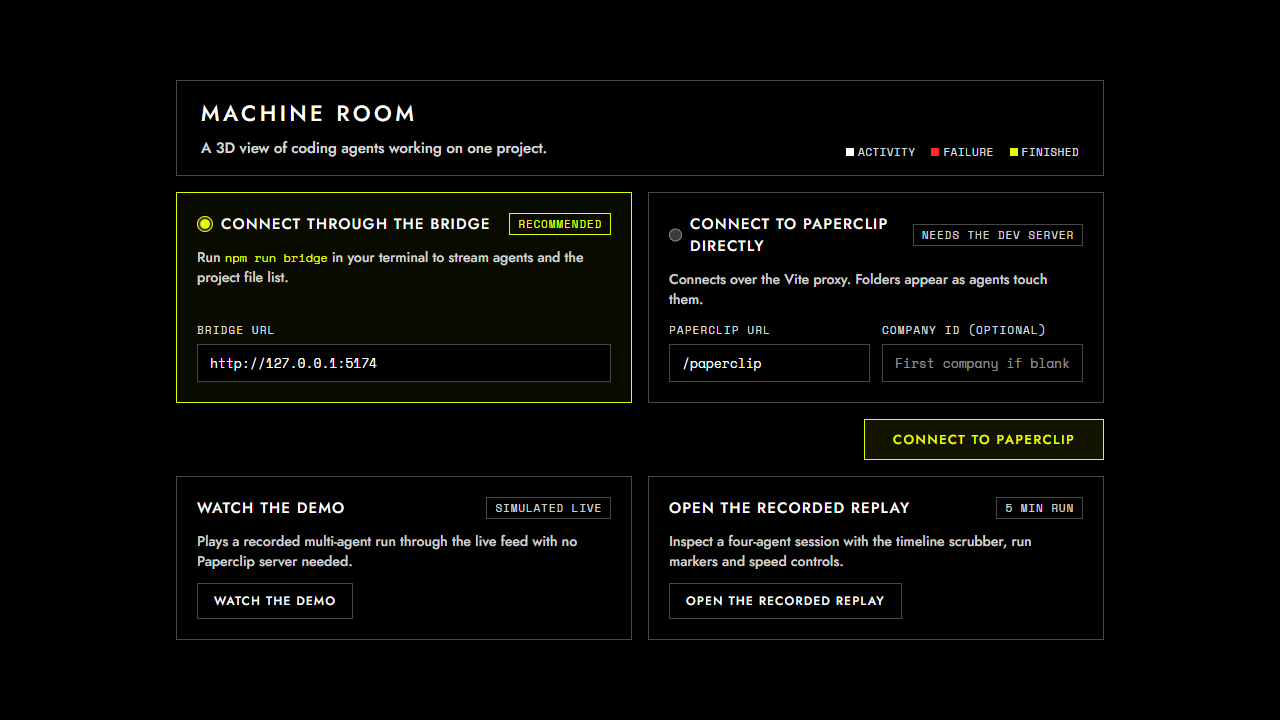
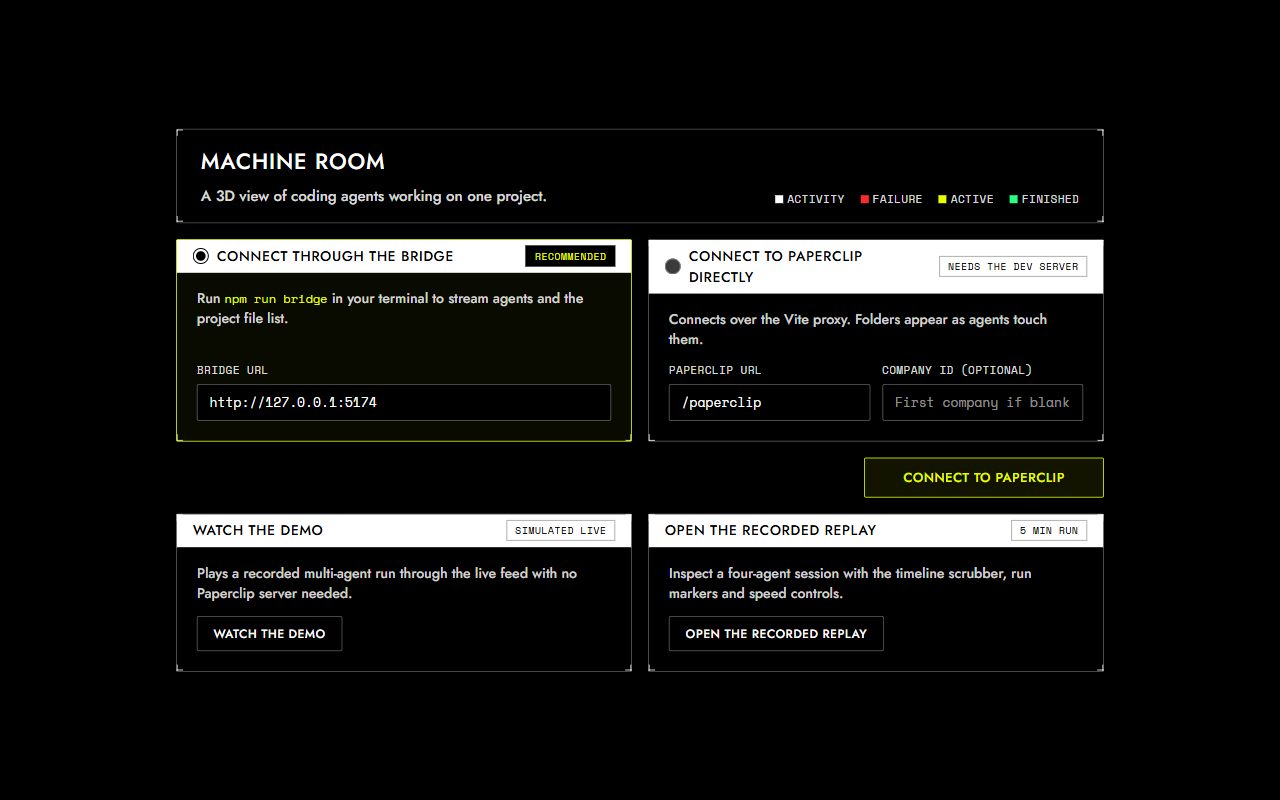
0.1.191: Update README screenshots for version 3 of the room.

Changed region(s): [[0.125, 0.1222, 0.875, 0.5194], [0.125, 0.55, 0.875, 0.8556]]

diff --git a/docs/agents/CHANGELOG.md b/docs/agents/CHANGELOG.md
@@ -2,6 +2,8 @@
 
 ## Unreleased
 
+- Fresh screenshots for version 3 of the room (task G4b): overview with two working agents, follow mode close up on one working agent, connect screen, control drawer open on Dispatch, and a seeded room at 40,000 files, each under 400 KB.
+
 - Review note on V17: three fixes. (1) The fish eye's barrel map was a base64 PNG written into `Stage.jsx`, and it does not decode: after the header its next chunk has a garbage type and a length of 3.8 billion. With no map, `feDisplacementMap` only shifts the picture, so the fish eye never bent anything, and its timing was taken that way. `src/ui/barrel.js` now draws the map (128 by 128, each point pulled toward the centre by r - 1, the centre and the rim still) on a canvas at load, with a test; the filter uses `color-interpolation-filters: sRGB` so 128 means no shift, and the scale is 240 at full strength (the map moves a pixel at most a quarter of the scale), not 40, which moved about 5 pixels. Checked in replay: the map decodes at 128 by 128 and the picture visibly bulges at full strength. (2) The key handler skipped every key whose target was a button, so after clicking any HUD button, `F`, `0`, `T` and the rest did nothing until the room was clicked; it now skips only Space and Enter on a button, and every key inside the Settings dialog. The fish eye's cost was not measured again with the working map. It ran 71 minutes. Full suite on the merge: 111 files, 2075 tests, in parallel on the first try.
 - Review note on V15: one fix, a merge. V15 removed V14's bracket code from `agents.js` while S2d added the child views there, so the merge kept S2d's code and dropped `syncTargets`, `BRACKETS` and `wantedTargets`. Checked in replay: the touched card keeps full opacity and its four brackets while the cards off the path fade to 0.25 over about a second, and after `F` the touched card grew from 81 to 229 px wide as the camera closed in. It ran 15 minutes and 9 cents. Full suite on the merge: 111 files, 2064 tests, in parallel on the first try.
 - Review note on S2d: no fixes. No fixture or recording reports a child, so the room was not checked by eye; the tests build a child view, fade it and check the chip title and the HUD rows. The number keys stay on top agents because `Stage.jsx` maps them to the roster. It ran 12 minutes and 10 cents. Full suite on the merge with V16: 110 files, 2053 tests, in parallel on the first try.
